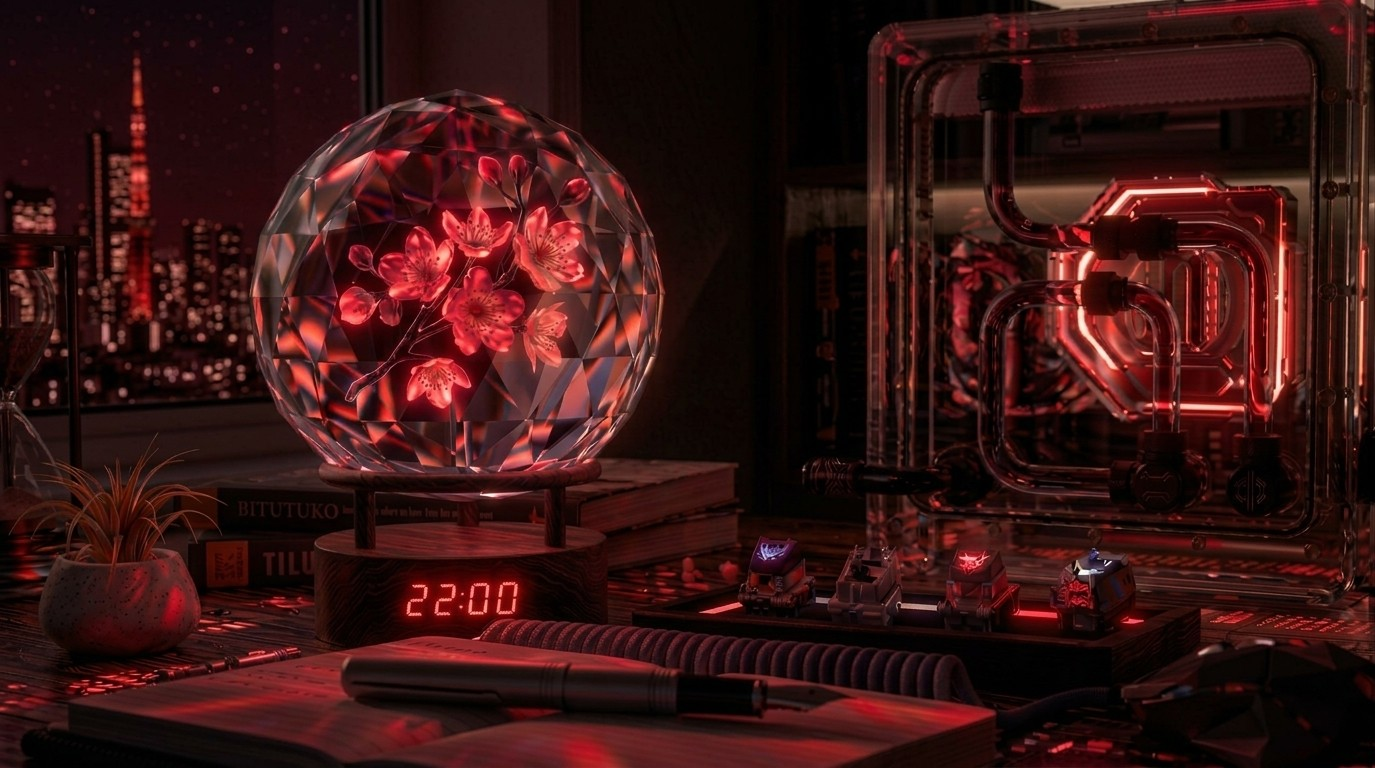
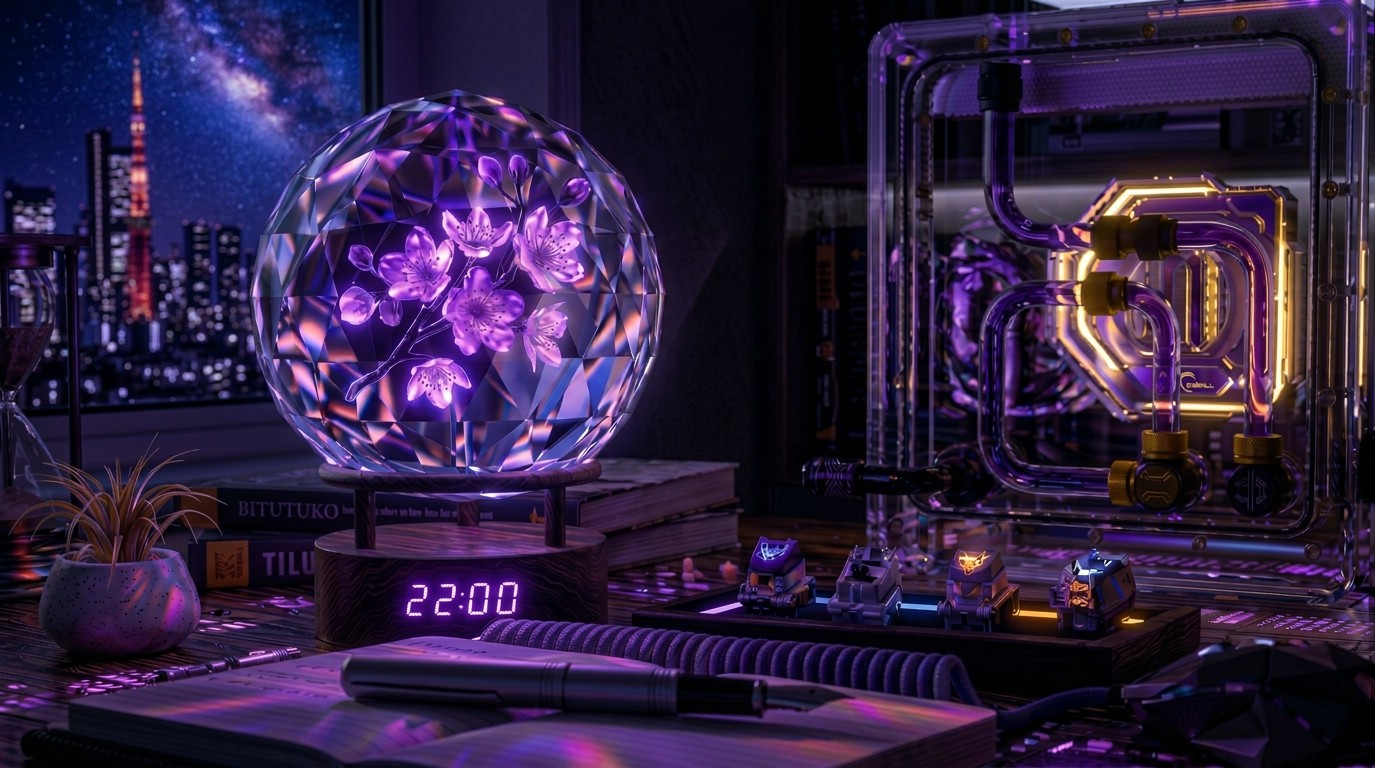
TOP絵: 22時台の赤を削除し、紫の写真に差し替え(緑とランダム)

diff --git a/docs/assets/style.css b/docs/assets/style.css
@@ -58,7 +58,7 @@
 
   /* ---- hero ---- */
   /* TOP絵は閲覧者の時刻で2時間毎の写真に切り替える(data-hはindex.htmlのスクリプトが設定、JS無効時は12時)。
-     写真の時計表示と時間帯を合わせる。18時台は時計の無い夜景。22時台は緑と赤の2枚があり、開くたびにどちらかをランダムに出す。
+     写真の時計表示と時間帯を合わせる。18時台は時計の無い夜景。22時台は緑と紫の2枚があり、開くたびにどちらかをランダムに出す。
      写真は桜を閉じ込めた水晶球が主役なので、球が切れないよう横は左寄り(30%)・縦は上寄り(20%。横長に切ると下の机側を削る)で合わせる。
      団名は右下に小さく置き、読みやすさのため右下だけ暗くする */
   .hero{--h-ink:#fff;--h-eye:#ffd0e0;position:relative;overflow:hidden;color:var(--h-ink);
